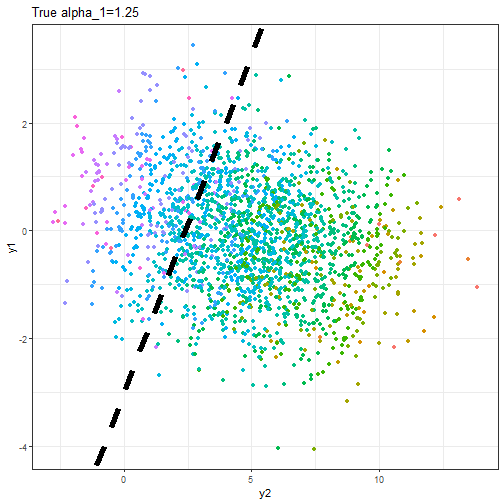
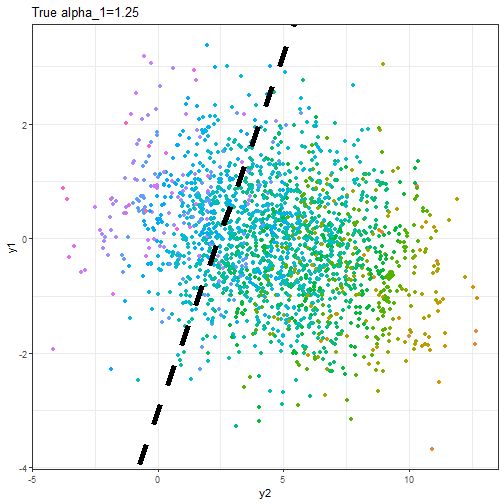
upd 04 again

diff --git a/lec/04-Instrumental-Variables/04-Instrumental-Variables.html b/lec/04-Instrumental-Variables/04-Instrumental-Variables.html
@@ -1543,20 +1543,20 @@ class: MSU
 ## lm(formula = y2 ~ z1 + z2, data = df1)
 ## 
 ## Residuals:
-##    Min     1Q Median     3Q    Max 
-## -7.742 -1.497 -0.029  1.500  8.055 
+##     Min      1Q  Median      3Q     Max 
+## -7.5466 -1.4707  0.0386  1.5041  7.6473 
 ## 
 ## Coefficients:
-##             Estimate Std. Error t value Pr(&gt;|t|)    
-## (Intercept) -0.03775    0.19646  -0.192    0.848    
-## z1           2.12930    0.05880  36.213  &lt; 2e-16 ***
-## z2           0.17397    0.04279   4.065 4.98e-05 ***
+##              Estimate Std. Error t value Pr(&gt;|t|)    
+## (Intercept) -0.009099   0.203601  -0.045    0.964    
+## z1           2.191085   0.060058  36.483   &lt;2e-16 ***
+## z2           0.102200   0.043888   2.329    0.020 *  
 ## ---
 ## Signif. codes:  0 '***' 0.001 '**' 0.01 '*' 0.05 '.' 0.1 ' ' 1
 ## 
-## Residual standard error: 2.178 on 1997 degrees of freedom
-## Multiple R-squared:  0.3997,	Adjusted R-squared:  0.3991 
-## F-statistic: 664.9 on 2 and 1997 DF,  p-value: &lt; 2.2e-16
+## Residual standard error: 2.203 on 1997 degrees of freedom
+## Multiple R-squared:  0.4004,	Adjusted R-squared:  0.3998 
+## F-statistic: 666.9 on 2 and 1997 DF,  p-value: &lt; 2.2e-16
 ```
 ---
 class: MSU 
@@ -1572,19 +1572,19 @@ class: MSU
 ## 
 ## Residuals:
 ##     Min      1Q  Median      3Q     Max 
-## -3.7135 -0.6185  0.0149  0.6713  3.3078 
+## -3.1651 -0.6548 -0.0018  0.6386  3.3384 
 ## 
 ## Coefficients:
-##              Estimate Std. Error t value Pr(&gt;|t|)    
-## (Intercept)  0.002838   0.084525   0.034    0.973    
-## y2hat        1.107849   0.109714  10.098   &lt;2e-16 ***
-## z1          -2.715576   0.235246 -11.544   &lt;2e-16 ***
+##             Estimate Std. Error t value Pr(&gt;|t|)    
+## (Intercept)  0.02078    0.08814   0.236    0.814    
+## y2hat        1.78060    0.18867   9.438   &lt;2e-16 ***
+## z1          -4.25642    0.41375 -10.287   &lt;2e-16 ***
 ## ---
 ## Signif. codes:  0 '***' 0.001 '**' 0.01 '*' 0.05 '.' 0.1 ' ' 1
 ## 
-## Residual standard error: 0.9714 on 1997 degrees of freedom
-## Multiple R-squared:  0.125,	Adjusted R-squared:  0.1241 
-## F-statistic: 142.6 on 2 and 1997 DF,  p-value: &lt; 2.2e-16
+## Residual standard error: 0.9677 on 1997 degrees of freedom
+## Multiple R-squared:  0.1209,	Adjusted R-squared:  0.1201 
+## F-statistic: 137.4 on 2 and 1997 DF,  p-value: &lt; 2.2e-16
 ```
 
 
@@ -1593,7 +1593,7 @@ class: MSU
 # Simultaneity
 
 ### The second-stage coefficient
-We get a pretty accurate estimate for `\(\alpha_1=1.11\)` from the second-stage having used `\(z_2\)` to instrument for `\(y_2\)`.
+We get a pretty accurate estimate for `\(\alpha_1=1.78\)` from the second-stage having used `\(z_2\)` to instrument for `\(y_2\)`.
 
 ---
 class: MSU
